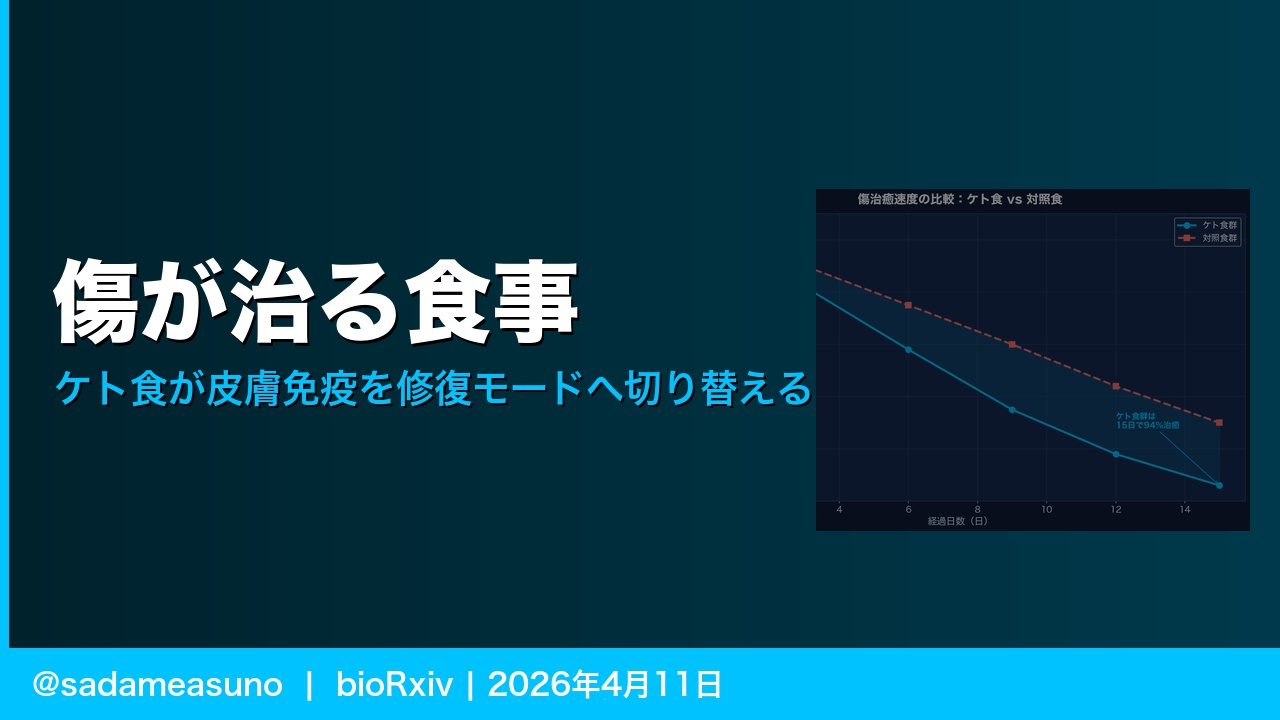
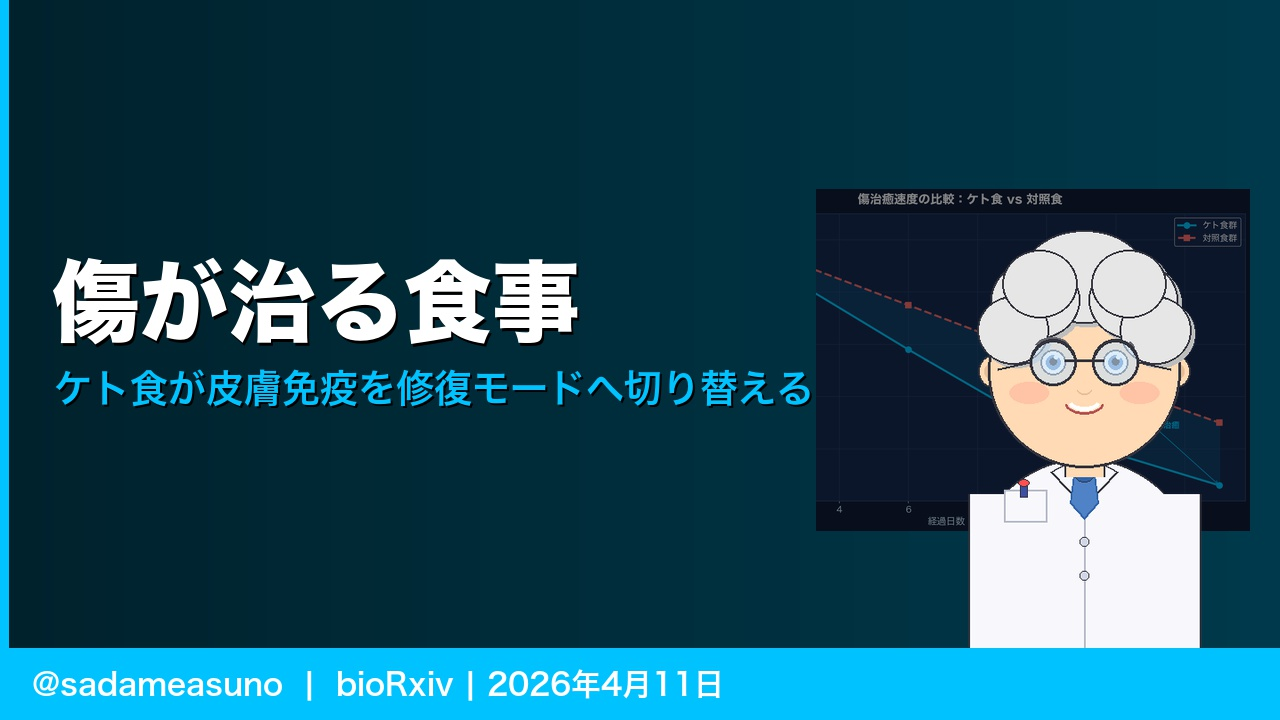
pipeline: 博士マスコットを追加・サムネイルに合成

Changed region(s): [[0.75, 0.3056, 0.9375, 0.9167]]

diff --git a/pipeline/generate_mascot.py b/pipeline/generate_mascot.py
@@ -1,0 +1,201 @@
+#!/usr/bin/env python3
+"""
+🔬 マスコット生成スクリプト — 博士キャラ
+出力: pipeline/mascot/mascot.png         (透過PNG 400×500)
+     pipeline/mascot/mascot_small.png    (透過PNG 120×150)
+"""
+
+import math
+from pathlib import Path
+from PIL import Image, ImageDraw, ImageFilter
+
+ROOT    = Path(__file__).parent.parent
+OUT_DIR = ROOT / "pipeline" / "mascot"
+OUT_DIR.mkdir(exist_ok=True)
+
+W, H = 400, 500
+
+# ── カラーパレット ─────────────────────────────────────────────────
+SKIN        = (255, 218, 180, 255)
+SKIN_DARK   = (230, 190, 150, 255)
+HAIR        = (230, 230, 230, 255)      # 白髪
+HAIR_DARK   = (190, 190, 190, 255)
+COAT        = (248, 248, 252, 255)      # 白衣
+COAT_DARK   = (210, 215, 230, 255)
+COAT_LINE   = (180, 185, 200, 255)
+GLASSES_F   = (50,  50,  60,  255)     # メガネフレーム
+LENS        = (200, 225, 245, 160)     # レンズ（半透明）
+EYE         = (40,  40,  50,  255)
+PUPIL       = (10,  10,  20,  255)
+BROW        = (100, 100, 110, 255)
+BLUSH       = (255, 170, 150, 120)
+MOUTH       = (180,  80,  80, 255)
+OUTLINE     = (50,  50,  60,  255)
+TIE         = (80, 130, 200, 255)
+TIE_DARK    = (50, 100, 170, 255)
+POCKET_LINE = (180, 185, 200, 255)
+PEN         = (60,  80, 160, 255)
+WHITE       = (255, 255, 255, 255)
+
+img  = Image.new("RGBA", (W, H), (0, 0, 0, 0))
+draw = ImageDraw.Draw(img)
+
+cx = W // 2      # 中央X
+hy = 185         # 頭の中心Y
+hr = 108         # 頭の半径
+
+# ── ① 白衣（ボディ）─────────────────────────────────────────────
+# 胴体
+body_top = hy + hr - 10
+draw.ellipse([cx-130, body_top, cx+130, H+60], fill=COAT, outline=OUTLINE, width=2)
+draw.rectangle([cx-130, body_top+40, cx+130, H], fill=COAT)
+draw.line([(cx-130, body_top+40), (cx-130, H)], fill=OUTLINE, width=2)
+draw.line([(cx+130, body_top+40), (cx+130, H)], fill=OUTLINE, width=2)
+
+# 白衣の中央ライン
+draw.line([(cx, body_top+20), (cx, H)], fill=COAT_LINE, width=2)
+
+# 白衣のボタン（3個）
+for i in range(3):
+    by = body_top + 55 + i * 38
+    draw.ellipse([cx-5, by-5, cx+5, by+5], fill=COAT_DARK, outline=OUTLINE, width=1)
+
+# 胸ポケット（左側）
+px, py, pw, ph = cx - 90, body_top + 35, 48, 36
+draw.rectangle([px, py, px+pw, py+ph], fill=COAT, outline=POCKET_LINE, width=2)
+# ポケットのペン
+draw.rectangle([px+18, py-8, px+26, py+8], fill=PEN, outline=OUTLINE, width=1)
+draw.ellipse([px+16, py-12, px+28, py-4], fill=(255,80,80,255), outline=OUTLINE, width=1)
+
+# 白衣の衿（V字）
+collar_pts = [
+    (cx - 38, body_top + 15),
+    (cx,      body_top + 55),
+    (cx + 38, body_top + 15),
+    (cx + 20, body_top + 5),
+    (cx - 20, body_top + 5),
+]
+draw.polygon(collar_pts, fill=COAT, outline=OUTLINE, width=2)
+
+# ネクタイ（青）
+tie_pts = [
+    (cx - 12, body_top + 18),
+    (cx + 12, body_top + 18),
+    (cx + 16, body_top + 50),
+    (cx,      body_top + 68),
+    (cx - 16, body_top + 50),
+]
+draw.polygon(tie_pts, fill=TIE, outline=TIE_DARK, width=2)
+# ネクタイのノット
+draw.ellipse([cx-10, body_top+12, cx+10, body_top+26], fill=TIE_DARK, outline=OUTLINE, width=1)
+
+# ── ② 耳 ─────────────────────────────────────────────────────────
+for side in [-1, 1]:
+    ex = cx + side * (hr - 5)
+    draw.ellipse([ex - 16, hy - 18, ex + 16, hy + 18], fill=SKIN, outline=OUTLINE, width=2)
+    draw.ellipse([ex - 9, hy - 10, ex + 9, hy + 10], fill=SKIN_DARK, outline=None)
+
+# ── ③ 首 ─────────────────────────────────────────────────────────
+draw.rectangle([cx-22, hy+hr-12, cx+22, body_top+20], fill=SKIN, outline=None)
+draw.line([(cx-22, hy+hr-12), (cx-22, body_top+20)], fill=OUTLINE, width=2)
+draw.line([(cx+22, hy+hr-12), (cx+22, body_top+20)], fill=OUTLINE, width=2)
+
+# ── ④ 頭（顔） ───────────────────────────────────────────────────
+draw.ellipse([cx-hr, hy-hr, cx+hr, hy+hr], fill=SKIN, outline=OUTLINE, width=3)
+
+# ── ⑤ 白髪（ふわふわ）───────────────────────────────────────────
+hair_blobs = [
+    # (中心x, 中心y, 半径x, 半径y)
+    (cx,       hy - hr + 2,  70, 52),   # 頭頂
+    (cx - 55,  hy - hr + 28, 50, 44),   # 左上
+    (cx + 55,  hy - hr + 28, 50, 44),   # 右上
+    (cx - 80,  hy - hr + 62, 40, 38),   # 左側
+    (cx + 80,  hy - hr + 62, 40, 38),   # 右側
+    (cx - 50,  hy - hr + 10, 42, 38),   # 左中
+    (cx + 50,  hy - hr + 10, 42, 38),   # 右中
+]
+# 影
+for (bx, by, rw, rh) in hair_blobs:
+    draw.ellipse([bx-rw+4, by-rh+4, bx+rw+4, by+rh+4], fill=HAIR_DARK)
+# 本体
+for (bx, by, rw, rh) in hair_blobs:
+    draw.ellipse([bx-rw, by-rh, bx+rw, by+rh], fill=HAIR, outline=OUTLINE, width=2)
+
+# ── ⑥ 眉毛 ───────────────────────────────────────────────────────
+for side in [-1, 1]:
+    bx = cx + side * 36
+    draw.arc([bx - 20, hy - 38, bx + 20, hy - 14],
+             start=200 if side < 0 else 320,
+             end  =340 if side < 0 else 360+20,
+             fill=BROW, width=4)
+
+# ── ⑦ 目 ─────────────────────────────────────────────────────────
+for side in [-1, 1]:
+    ex = cx + side * 35
+    ey = hy - 10
+    # 白目
+    draw.ellipse([ex-14, ey-14, ex+14, ey+14], fill=WHITE, outline=OUTLINE, width=2)
+    # 虹彩
+    draw.ellipse([ex-8, ey-8, ex+8, ey+8], fill=(80, 130, 200, 255))
+    # 瞳孔
+    draw.ellipse([ex-4, ey-5, ex+4, ey+3], fill=PUPIL)
+    # ハイライト
+    draw.ellipse([ex+1, ey-8, ex+5, ey-4], fill=WHITE)
+
+# ── ⑧ メガネ ─────────────────────────────────────────────────────
+lens_r = 26
+for side in [-1, 1]:
+    gx = cx + side * 35
+    gy = hy - 10
+    # レンズ（半透明）
+    lens_img = Image.new("RGBA", (W, H), (0, 0, 0, 0))
+    lens_draw = ImageDraw.Draw(lens_img)
+    lens_draw.ellipse([gx-lens_r, gy-lens_r, gx+lens_r, gy+lens_r], fill=LENS)
+    img = Image.alpha_composite(img, lens_img)
+    draw = ImageDraw.Draw(img)
+    # フレーム
+    draw.ellipse([gx-lens_r, gy-lens_r, gx+lens_r, gy+lens_r],
+                 outline=GLASSES_F, width=3)
+    # フレーム上部の太め強調
+    draw.arc([gx-lens_r, gy-lens_r, gx+lens_r, gy+lens_r],
+             start=200, end=340, fill=GLASSES_F, width=4)
+
+# メガネブリッジ
+draw.line([(cx - lens_r + 4, hy - 12), (cx + lens_r - 4, hy - 12)],
+          fill=GLASSES_F, width=3)
+# テンプル（耳へのアーム）
+for side in [-1, 1]:
+    gx = cx + side * 35
+    draw.line([(gx + side * lens_r, hy - 10),
+               (gx + side * (lens_r + 36), hy - 2)],
+              fill=GLASSES_F, width=3)
+
+# ── ⑨ 鼻 ─────────────────────────────────────────────────────────
+draw.arc([cx-10, hy+8, cx+10, hy+26], start=30, end=150, fill=SKIN_DARK, width=2)
+
+# ── ⑩ 口（笑顔）─────────────────────────────────────────────────
+draw.arc([cx-22, hy+22, cx+22, hy+48], start=10, end=170, fill=MOUTH, width=3)
+# 歯（白い部分）
+draw.arc([cx-18, hy+24, cx+18, hy+44], start=15, end=165, fill=WHITE, width=5)
+
+# ── ⑪ ほっぺ（赤み）─────────────────────────────────────────────
+blush_img = Image.new("RGBA", (W, H), (0, 0, 0, 0))
+blush_draw = ImageDraw.Draw(blush_img)
+for side in [-1, 1]:
+    bx = cx + side * 62
+    blush_draw.ellipse([bx-22, hy+12, bx+22, hy+36], fill=BLUSH)
+img = Image.alpha_composite(img, blush_img)
+draw = ImageDraw.Draw(img)
+
+# ── ⑫ 保存 ───────────────────────────────────────────────────────
+out_main  = OUT_DIR / "mascot.png"
+out_small = OUT_DIR / "mascot_small.png"
+
+img.save(out_main, "PNG")
+print(f"  ✅ mascot.png    → {out_main.relative_to(ROOT)}")
+
+small = img.resize((120, 150), Image.LANCZOS)
+small.save(out_small, "PNG")
+print(f"  ✅ mascot_small.png → {out_small.relative_to(ROOT)}")
+
+print(f"\n  open pipeline/mascot/ で確認してください")

diff --git a/pipeline/generate_thumbnail.py b/pipeline/generate_thumbnail.py
@@ -70,6 +70,9 @@ chart_a = CHARTS_DIR / f"{PAPER_ID}_chart_A.png"
 chart_b = CHARTS_DIR / f"{PAPER_ID}_chart_B.png"
 chart_path = chart_a if chart_a.exists() else (chart_b if chart_b.exists() else None)
 
+# マスコット画像
+mascot_path = ROOT / "pipeline" / "mascot" / "mascot.png"
+
 # アクセントカラー → RGB
 def hex2rgb(h):
     h = h.lstrip("#")
@@ -127,6 +130,18 @@ def make_long():
             g = int(BG_DARK[1] * (1 - t) + BG_MID[1] * t)
             b = int(BG_DARK[2] * (1 - t) + BG_MID[2] * t)
             draw.line([(cx + i, 0), (cx + i, H)], fill=(r, g, b))
+
+    draw = ImageDraw.Draw(img)
+
+    # マスコット（右下コーナー）
+    if mascot_path.exists():
+        mascot = Image.open(mascot_path).convert("RGBA")
+        mh = int(H * 0.62)
+        mw = int(mh * mascot.width / mascot.height)
+        mascot = mascot.resize((mw, mh), Image.LANCZOS)
+        mx = W - mw - 18
+        my = H - mh - 68
+        img.paste(mascot, (mx, my), mascot)
 
     draw = ImageDraw.Draw(img)
 